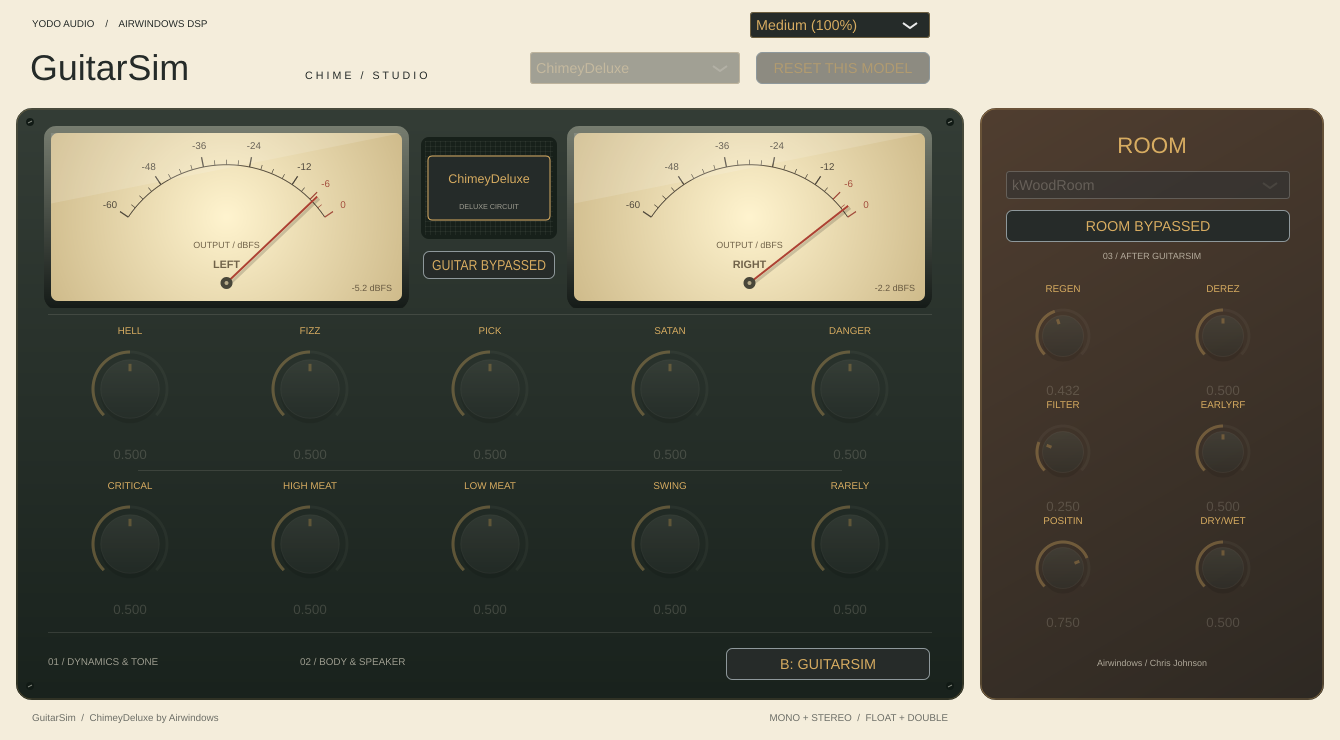
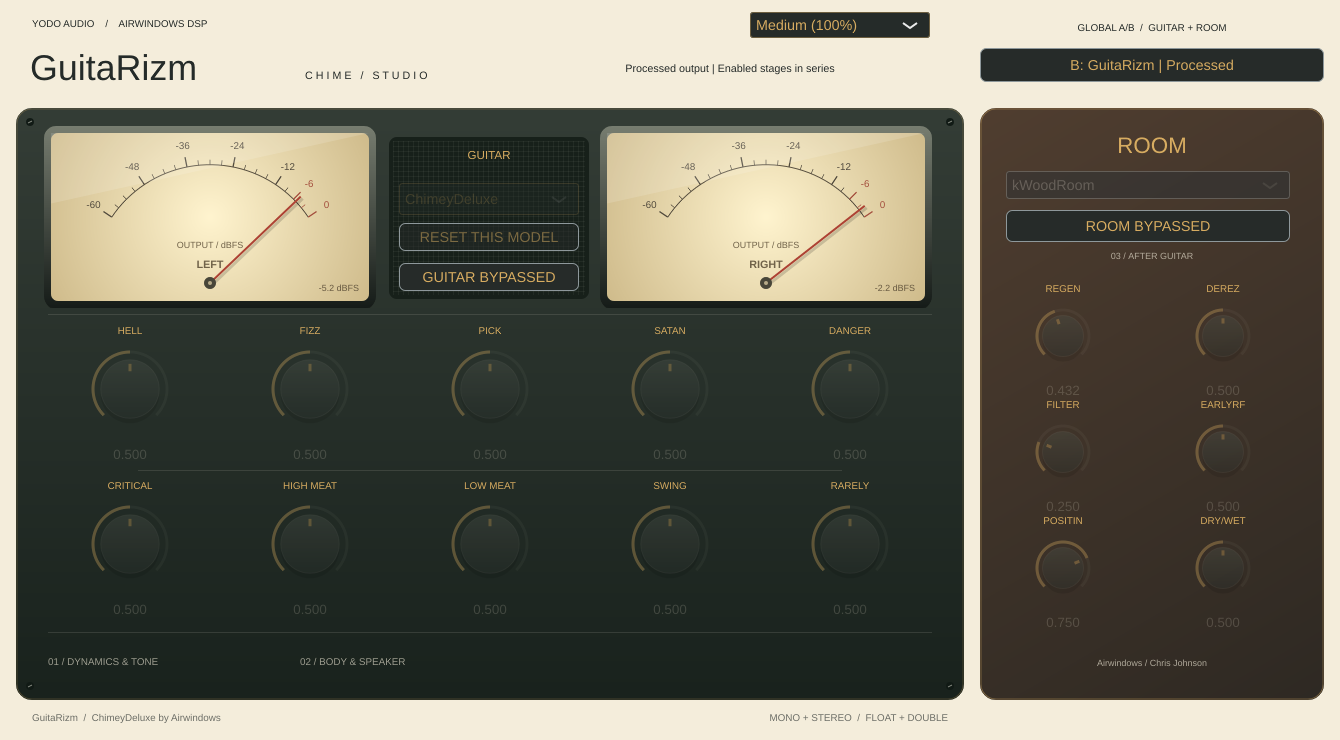
Refine GuitaRizm interface and clarify global A/B comparison

diff --git a/Source/Plugin.cpp b/Source/Plugin.cpp
@@ -293,8 +293,14 @@ public:
             }
         };
         original.setComponentID("abOriginal"); original.setClickingTogglesState(true);
-        original.setTooltip("Compare the unprocessed input with GuitarSim. Uses a 10 ms crossfade.");
+        original.setTooltip("Global A/B: A is the original input, bypassing BOTH Guitar and Room. B is the complete GuitaRizm chain with your selected stages. Uses a 10 ms crossfade.");
         originalAttachment=std::make_unique<juce::AudioProcessorValueTreeState::ButtonAttachment>(processor.state,"original",original);
+        addAndMakeVisible(comparisonStatus);
+        comparisonStatus.setComponentID("comparisonStatus");
+        comparisonStatus.setJustificationType(juce::Justification::centred);
+        comparisonStatus.setFont(juce::FontOptions(12.f));
+        comparisonStatus.setColour(juce::Label::textColourId,style::ink);
+        original.onClick=[this] { refreshStages(); };
         guitarEnabled.onClick=[this] { refreshStages(); };
         roomEnabled.onClick=[this] { refreshStages(); };
         bindModel(processor.selectedModel()); bindRoom(); refreshStages();
@@ -303,20 +309,22 @@ public:
     ~GuitarPanel() override { stopTimer(); setLookAndFeel(nullptr); }
     std::function<void()> sizeChanged;
     void resized() override {
-        sizeChoice.setBounds(750,12,180,26); selector.setBounds(530,52,210,32); reset.setBounds(756,52,174,32);
-        guitarEnabled.setBounds(423,251,132,28);
-        leftMeter.setBounds(44,126,365,182); rightMeter.setBounds(567,126,365,182);
+        sizeChoice.setBounds(750,12,180,26);
+        selector.setBounds(399,183,180,32); reset.setBounds(399,223,180,28);
+        comparisonStatus.setBounds(530,48,400,40);
+        guitarEnabled.setBounds(399,263,180,28);
+        leftMeter.setBounds(44,126,332,182); rightMeter.setBounds(600,126,332,182);
         roomSelector.setBounds(1006,171,284,28);
         roomEnabled.setBounds(1006,210,284,32);
         for(int i=0;i<6;++i) roomKnobs[i].setBounds(988+(i%2)*160,294+(i/2)*116,150,108);
-        original.setBounds(726,648,204,32);
+        original.setBounds(980,48,344,34);
         for(int i=0;i<10;++i) knobs[static_cast<size_t>(i)].setBounds(44+(i%5)*180,336+(i/5)*155,172,130);
     }
     void paint(juce::Graphics& g) override {
         using namespace style;
         g.fillAll(cream); g.setColour(ink); g.setFont(juce::FontOptions(11.f));
         g.drawText("YODO AUDIO    /    AIRWINDOWS DSP",32,14,600,20,juce::Justification::left);
-        g.setFont(juce::FontOptions(40.f)); g.drawText("GuitarSim",30,40,300,55,juce::Justification::left);
+        g.setFont(juce::FontOptions(40.f)); g.drawText("GuitaRizm",30,40,300,55,juce::Justification::left);
         g.setFont(juce::FontOptions(12.f)); g.drawText("C H I M E   /   S T U D I O",305,65,220,20,juce::Justification::left);
         g.setGradientFill(juce::ColourGradient(juce::Colour(0xff343d36),0,108,juce::Colour(0xff19221d),0,700,false));
         g.fillRoundedRectangle(16,108,948,592,16);
@@ -332,23 +340,22 @@ public:
         g.setColour(gold); g.setFont(juce::FontOptions(25.f));
         g.drawText("ROOM",1000,125,304,40,juce::Justification::centred);
         g.setColour(cream.withAlpha(.65f)); g.setFont(juce::FontOptions(10.f));
-        g.drawText("03 / AFTER GUITARSIM",1000,247,304,18,juce::Justification::centred);
+        g.drawText("03 / AFTER GUITAR",1000,247,304,18,juce::Justification::centred);
         g.drawText("Airwindows / Chris Johnson",1000,653,304,20,juce::Justification::centred);
         for(int i=0;i<(shownRoom==0?6:3);++i) {
             g.setColour(gold); g.setFont(juce::FontOptions(11.f));
             g.drawText(juce::String(shownRoom==0?controls::roomNames[i]:controls::boxNames[i]).toUpperCase(),988+(i%2)*160,278+(i/2)*116,150,22,juce::Justification::centred);
         }
-        // Tape-style stereo needles flank the speaker-cloth model badge.
-        const juce::Rectangle<float> cloth{421,137,136,102};
+        g.setColour(ink); g.setFont(juce::FontOptions(11.f));
+        g.drawText("GLOBAL A/B  /  GUITAR + ROOM",980,18,344,20,juce::Justification::centred);
+        // Guitar selection and reset live between the two output meters.
+        const juce::Rectangle<float> cloth{389,137,200,162};
         g.setColour(juce::Colour(0xff17201a)); g.fillRoundedRectangle(cloth,8);
         g.setColour(cream.withAlpha(.055f));
-        for(int x=425;x<555;x+=5) g.drawVerticalLine(x,141,235);
-        for(int y=141;y<236;y+=5) g.drawHorizontalLine(y,425,553);
-        g.setColour(ink); g.fillRoundedRectangle(427,155,124,66,5);
-        g.setColour(gold); g.drawRoundedRectangle({428.f,156.f,122.f,64.f},4,1);
-        g.setFont(juce::FontOptions(14.f)); g.drawText(controls::models[shownModel],430,164,118,30,juce::Justification::centred);
-        g.setFont(juce::FontOptions(8.f)); g.setColour(cream.withAlpha(.6f));
-        g.drawText(shownModel==2?"DELUXE CIRCUIT":"CHIME CIRCUIT",430,199,118,16,juce::Justification::centred);
+        for(int x=393;x<587;x+=5) g.drawVerticalLine(x,141,295);
+        for(int y=141;y<296;y+=5) g.drawHorizontalLine(y,393,585);
+        g.setColour(gold); g.setFont(juce::FontOptions(13.f));
+        g.drawText("GUITAR",399,143,180,24,juce::Justification::centred);
         g.setColour(cream.withAlpha(.12f)); g.drawHorizontalLine(314,48,932); g.drawHorizontalLine(470,138,842); g.drawHorizontalLine(632,48,932);
         g.setColour(gold); g.setFont(juce::FontOptions(11.f));
         for(int i=0;i<10;++i) g.drawText(juce::String(controls::name(shownModel,i)).toUpperCase(),44+(i%5)*180,320+(i/5)*155,172,22,juce::Justification::centred);
@@ -356,7 +363,7 @@ public:
         g.drawText("01 / DYNAMICS & TONE",48,652,380,20,juce::Justification::left);
         g.drawText("02 / BODY & SPEAKER",300,652,380,20,juce::Justification::left);
         g.setColour(ink.withAlpha(.65f));
-        g.drawText("GuitarSim  /  "+juce::String(controls::models[shownModel])+" by Airwindows",32,708,650,20,juce::Justification::left);
+        g.drawText("GuitaRizm  /  "+juce::String(controls::models[shownModel])+" by Airwindows",32,708,650,20,juce::Justification::left);
         g.drawText("MONO + STEREO  /  FLOAT + DOUBLE",650,708,298,20,juce::Justification::right);
     }
 private:
@@ -376,14 +383,17 @@ private:
         repaint();
     }
     void refreshStages() {
+        const bool originalOn=processor.state.getRawParameterValue("original")->load()>.5f;
         const bool guitarOn=processor.state.getRawParameterValue("guitarEnabled")->load()>.5f;
         const bool roomOn=processor.state.getRawParameterValue("roomEnabled")->load()>.5f;
-        for(auto& knob:knobs) { knob.setEnabled(guitarOn); knob.setAlpha(guitarOn?1.f:.35f); }
-        for(auto& knob:roomKnobs) { knob.setEnabled(roomOn); knob.setAlpha(roomOn?1.f:.35f); }
-        selector.setEnabled(guitarOn); selector.setAlpha(guitarOn?1.f:.4f); reset.setEnabled(guitarOn);
-        roomSelector.setEnabled(roomOn); roomSelector.setAlpha(roomOn?1.f:.4f);
-        guitarEnabled.setButtonText(guitarOn?"GUITAR ON":"GUITAR BYPASSED");
-        roomEnabled.setButtonText(roomOn?"ROOM ON":"ROOM BYPASSED");
+        for(auto& knob:knobs) { knob.setEnabled(guitarOn && !originalOn); knob.setAlpha(guitarOn && !originalOn?1.f:.35f); }
+        for(auto& knob:roomKnobs) { knob.setEnabled(roomOn && !originalOn); knob.setAlpha(roomOn && !originalOn?1.f:.35f); }
+        selector.setEnabled(guitarOn && !originalOn); selector.setAlpha(guitarOn && !originalOn?1.f:.4f); reset.setEnabled(guitarOn && !originalOn);
+        roomSelector.setEnabled(roomOn && !originalOn); roomSelector.setAlpha(roomOn && !originalOn?1.f:.4f);
+        guitarEnabled.setButtonText(originalOn?"GUITAR: A/B BYPASS":guitarOn?"GUITAR ON":"GUITAR BYPASSED");
+        roomEnabled.setButtonText(originalOn?"ROOM: A/B BYPASS":roomOn?"ROOM ON":"ROOM BYPASSED");
+        original.setButtonText(originalOn?"A: Original | Guitar + Room bypassed":"B: GuitaRizm | Processed");
+        comparisonStatus.setText(originalOn?"Original input | Both stages bypassed":"Processed output | Enabled stages in series",juce::dontSendNotification);
     }
     void bindModel(int model) {
         if(model==shownModel) return;
@@ -401,7 +411,6 @@ private:
     void timerCallback() override {
         bindModel(processor.selectedModel());
         bindRoom(); refreshStages();
-        original.setButtonText(original.getToggleState()?"A: ORIGINAL INPUT":"B: GUITARSIM");
         if(sizeChoice.getSelectedId()!=processor.uiSize.load()) {
             sizeChoice.setSelectedId(processor.uiSize.load(),juce::dontSendNotification); if(sizeChanged) sizeChanged();
         }
@@ -431,8 +440,9 @@ private:
     std::unique_ptr<juce::AudioProcessorValueTreeState::ButtonAttachment> roomAttachment;
     std::array<juce::Slider,10> knobs;
     std::array<std::unique_ptr<juce::AudioProcessorValueTreeState::SliderAttachment>,10> attachments;
+    juce::Label comparisonStatus;
     juce::ComboBox selector,sizeChoice;
-    juce::TextButton reset{"RESET THIS MODEL"},original{"B: GUITARSIM"};
+    juce::TextButton reset{"RESET THIS MODEL"},original{"B: GuitaRizm | Processed"};
     std::unique_ptr<juce::AudioProcessorValueTreeState::ComboBoxAttachment> selectorAttachment;
     std::unique_ptr<juce::AudioProcessorValueTreeState::ButtonAttachment> originalAttachment;
     juce::TooltipWindow tooltip{this,600};

diff --git a/tests/PluginChecks.cpp b/tests/PluginChecks.cpp
@@ -232,6 +232,15 @@ int main(int argc,char** argv) {
         roomChoice->setSelectedId(1,juce::sendNotificationSync);
         require(std::abs(param(*restored,"kWoodRoom_0").getValue()-.432f)<1.e-6f,"Room bank lost on switch");
         require(std::abs(param(*restored,"WoodenBox_0").getValue()-.654f)<1.e-6f,"Box bank lost on switch");
+        auto* globalAB=dynamic_cast<juce::Button*>(find(*editor,"abOriginal")); require(globalAB,"Global comparison button");
+        require(globalAB->getButtonText().contains("GuitaRizm"),"UI comparison name");
+        globalAB->setToggleState(true,juce::sendNotificationSync);
+        require(globalAB->getButtonText().contains("Guitar + Room bypassed"),"Global bypass scope unclear");
+        require(!find(*editor,"ChimeyDeluxe_0")->isEnabled() && !find(*editor,"kWoodRoom_0")->isEnabled(),"Original comparison did not dim both sections");
+        require(param(*restored,"guitarEnabled").getValue()==1.f && param(*restored,"roomEnabled").getValue()==1.f,"A/B changed saved engage settings");
+        snapshot("ui-original");
+        globalAB->setToggleState(false,juce::sendNotificationSync);
+        require(find(*editor,"ChimeyDeluxe_0")->isEnabled() && find(*editor,"kWoodRoom_0")->isEnabled(),"Processed comparison did not restore controls");
         auto* guitarSwitch=dynamic_cast<juce::Button*>(find(*editor,"guitarEnabled")); require(guitarSwitch,"Guitar switch");
         guitarSwitch->setToggleState(false,juce::sendNotificationSync);
         roomSwitch->setToggleState(false,juce::sendNotificationSync);

diff --git a/README.md b/README.md
@@ -2,7 +2,7 @@
 
 A JUCE VST3 interface for **ChimeyGuitar2**, **ChimeyGuitar**, and **ChimeyDeluxe** by [Airwindows](https://github.com/airwindows/airwindows). Built in the visual family of [ToTape Studio](https://github.com/johandoornenbal/tape) and [Wide](https://github.com/johandoornenbal/wide): cream faceplate, dark green chassis, gold rotary controls, and a speaker-cloth model badge.
 
-**GuitarSim** is the name shown in your DAW. ChimeyGuitar2 is selected by default. Every algorithm keeps its own ten controls and original Airwindows defaults when you switch models and save your DAW session. There is no LUFS compensation, automatic gain adjustment, or level-learning system.
+**GuitaRizm** is the interface name; **GuitarSim** remains the VST plugin name shown in your DAW. ChimeyGuitar2 is selected by default. Every algorithm keeps its own ten controls and original Airwindows defaults when you switch models and save your DAW session. There is no LUFS compensation, automatic gain adjustment, or level-learning system.
 
 ![GuitarSim — ChimeyGuitar2](docs/ui-ChimeyGuitar2.png)
 
@@ -20,14 +20,14 @@ Room settings are shared across guitar models and saved with the session.
 The model reset button leaves room settings unchanged. A/B compares the original
 input with the complete guitar-plus-room chain, and meters show the final output.
 
-[WoodenBox preview](docs/ui-WoodenBox.png) · [Both stages bypassed](docs/ui-bypassed.png)
+[WoodenBox preview](docs/ui-WoodenBox.png) · [Both stages bypassed](docs/ui-bypassed.png) · [Global A/B: original input](docs/ui-original.png)
 
 ## Controls
 
-- **Algorithm:** choose ChimeyGuitar, ChimeyGuitar2, or ChimeyDeluxe. Switching resets the entering engine's audio history to avoid carrying old filter/compressor state into a new audition.
+- **Algorithm (between the needle meters):** choose ChimeyGuitar, ChimeyGuitar2, or ChimeyDeluxe. Switching resets the entering engine's audio history to avoid carrying old filter/compressor state into a new audition.
 - **Rotary controls:** drag or type a value from 0 to 1; double-click to restore that control's original default. Each model exposes its actual Airwindows parameters.
-- **Reset this model:** restores only the selected algorithm's controls. Other algorithms retain their settings.
-- **A: Original input / B: GuitarSim:** compare dry and processed audio with a 10 ms crossfade. This does not match their loudness. The engines continue running while listening to Original.
+- **Reset this model (inside the guitar section):** restores only the selected algorithm's controls. Other algorithms retain their settings.
+- **Global A/B (above both sections):** A listens to the original input, bypassing both Guitar and Room. Both sections dim and show “A/B BYPASS” while listening to A; their saved engage settings are retained. B listens to the complete GuitaRizm chain with whichever stages you have enabled, using a 10 ms crossfade. This does not match their loudness. The engines continue running while listening to Original.
 - **Output meters:** illuminated stereo needle meters styled like ToTape Studio. They display final output sample peaks in dBFS with the same 120 ms attack and 450 ms release damping as Tape. The needles return to rest when playback stops; the numerical readouts show levels above 0 dBFS. These are sample-peak displays, not calibrated VU meters. No limiter is applied.
 - **Interface size:** 75%, 100%, or 125%, saved with the session.
 
